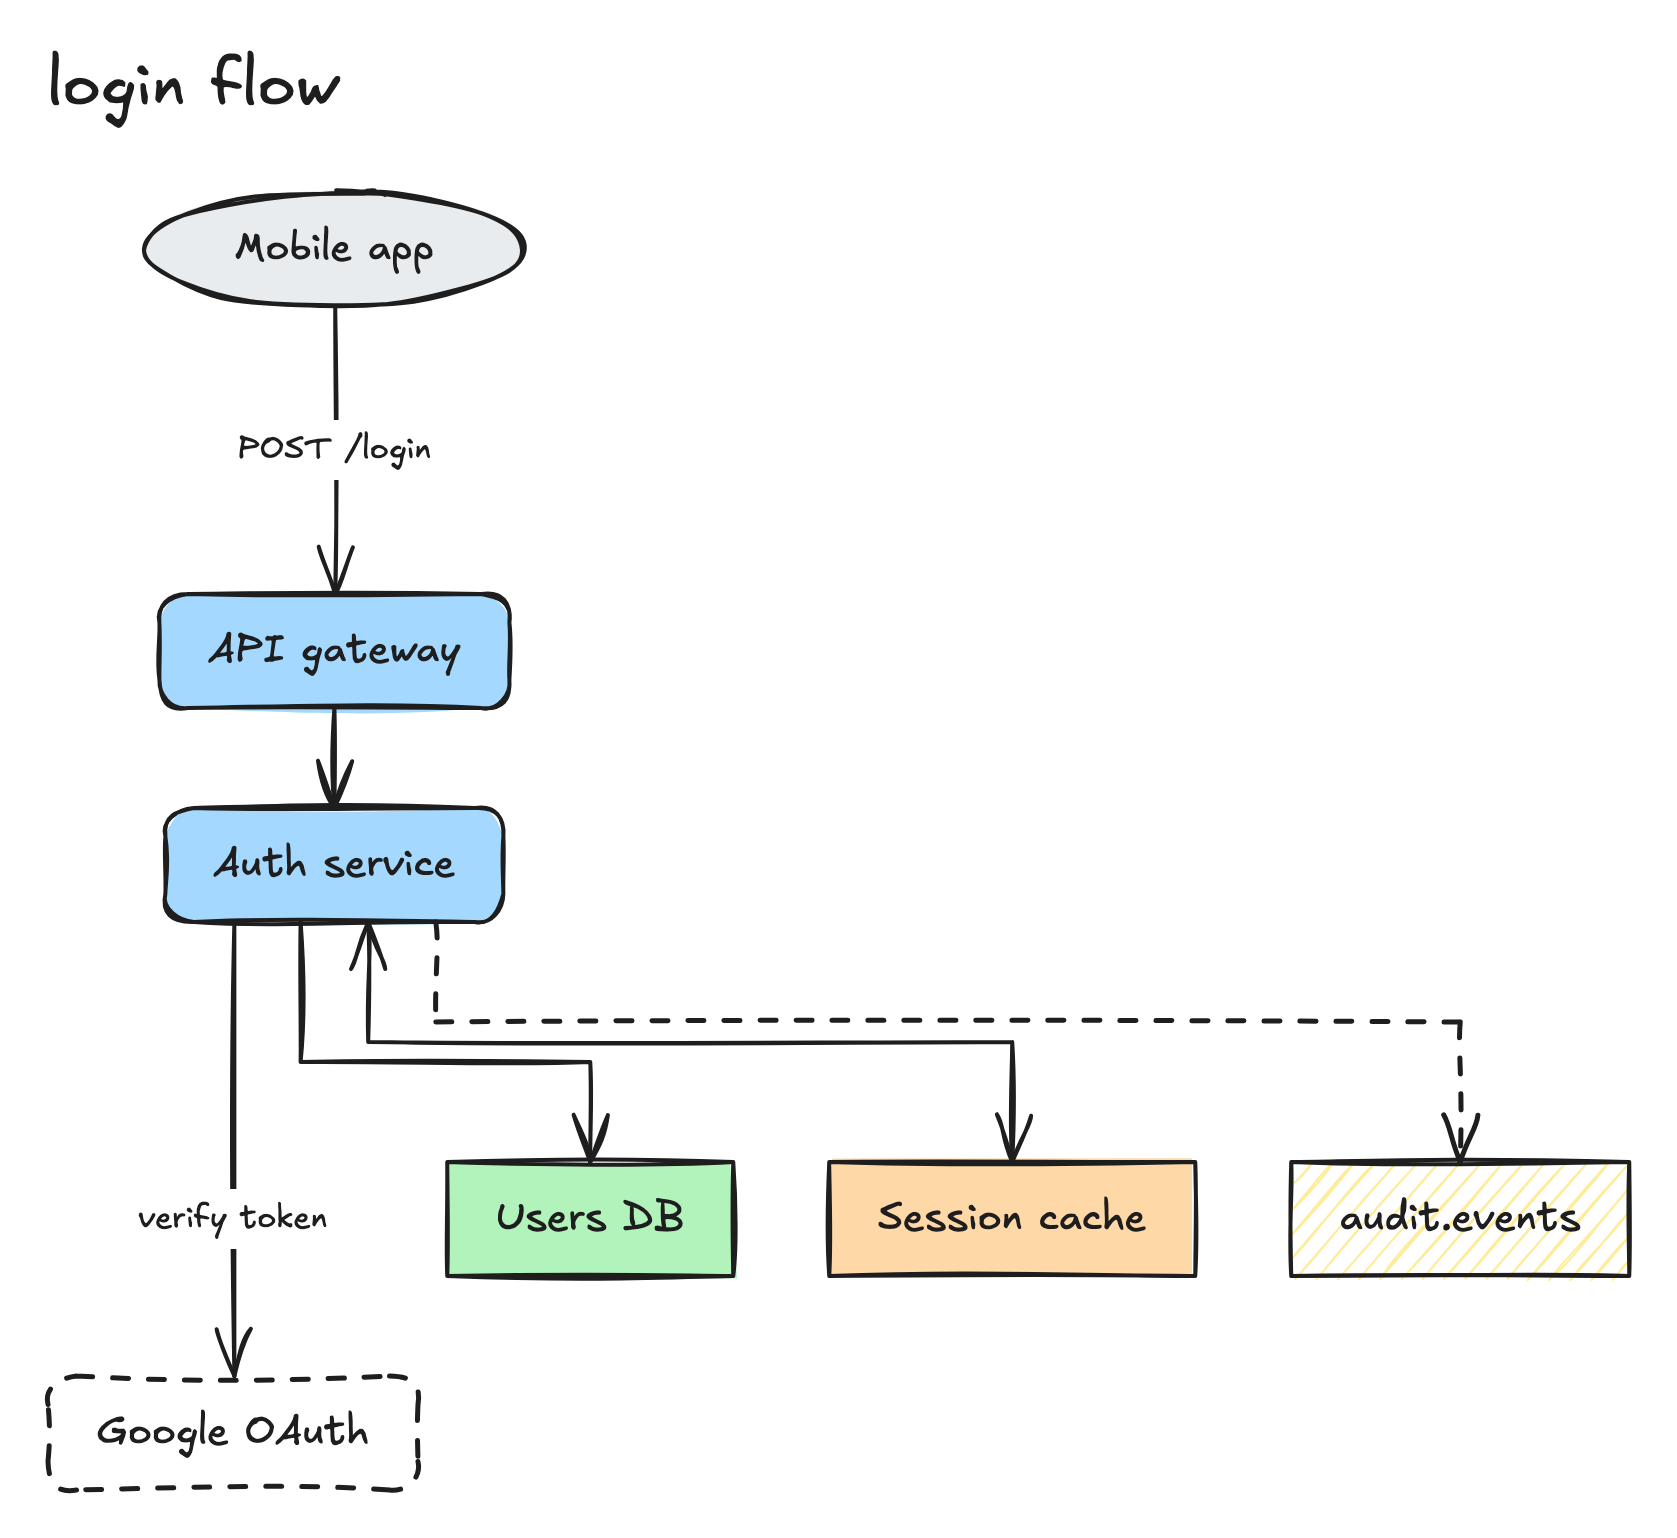
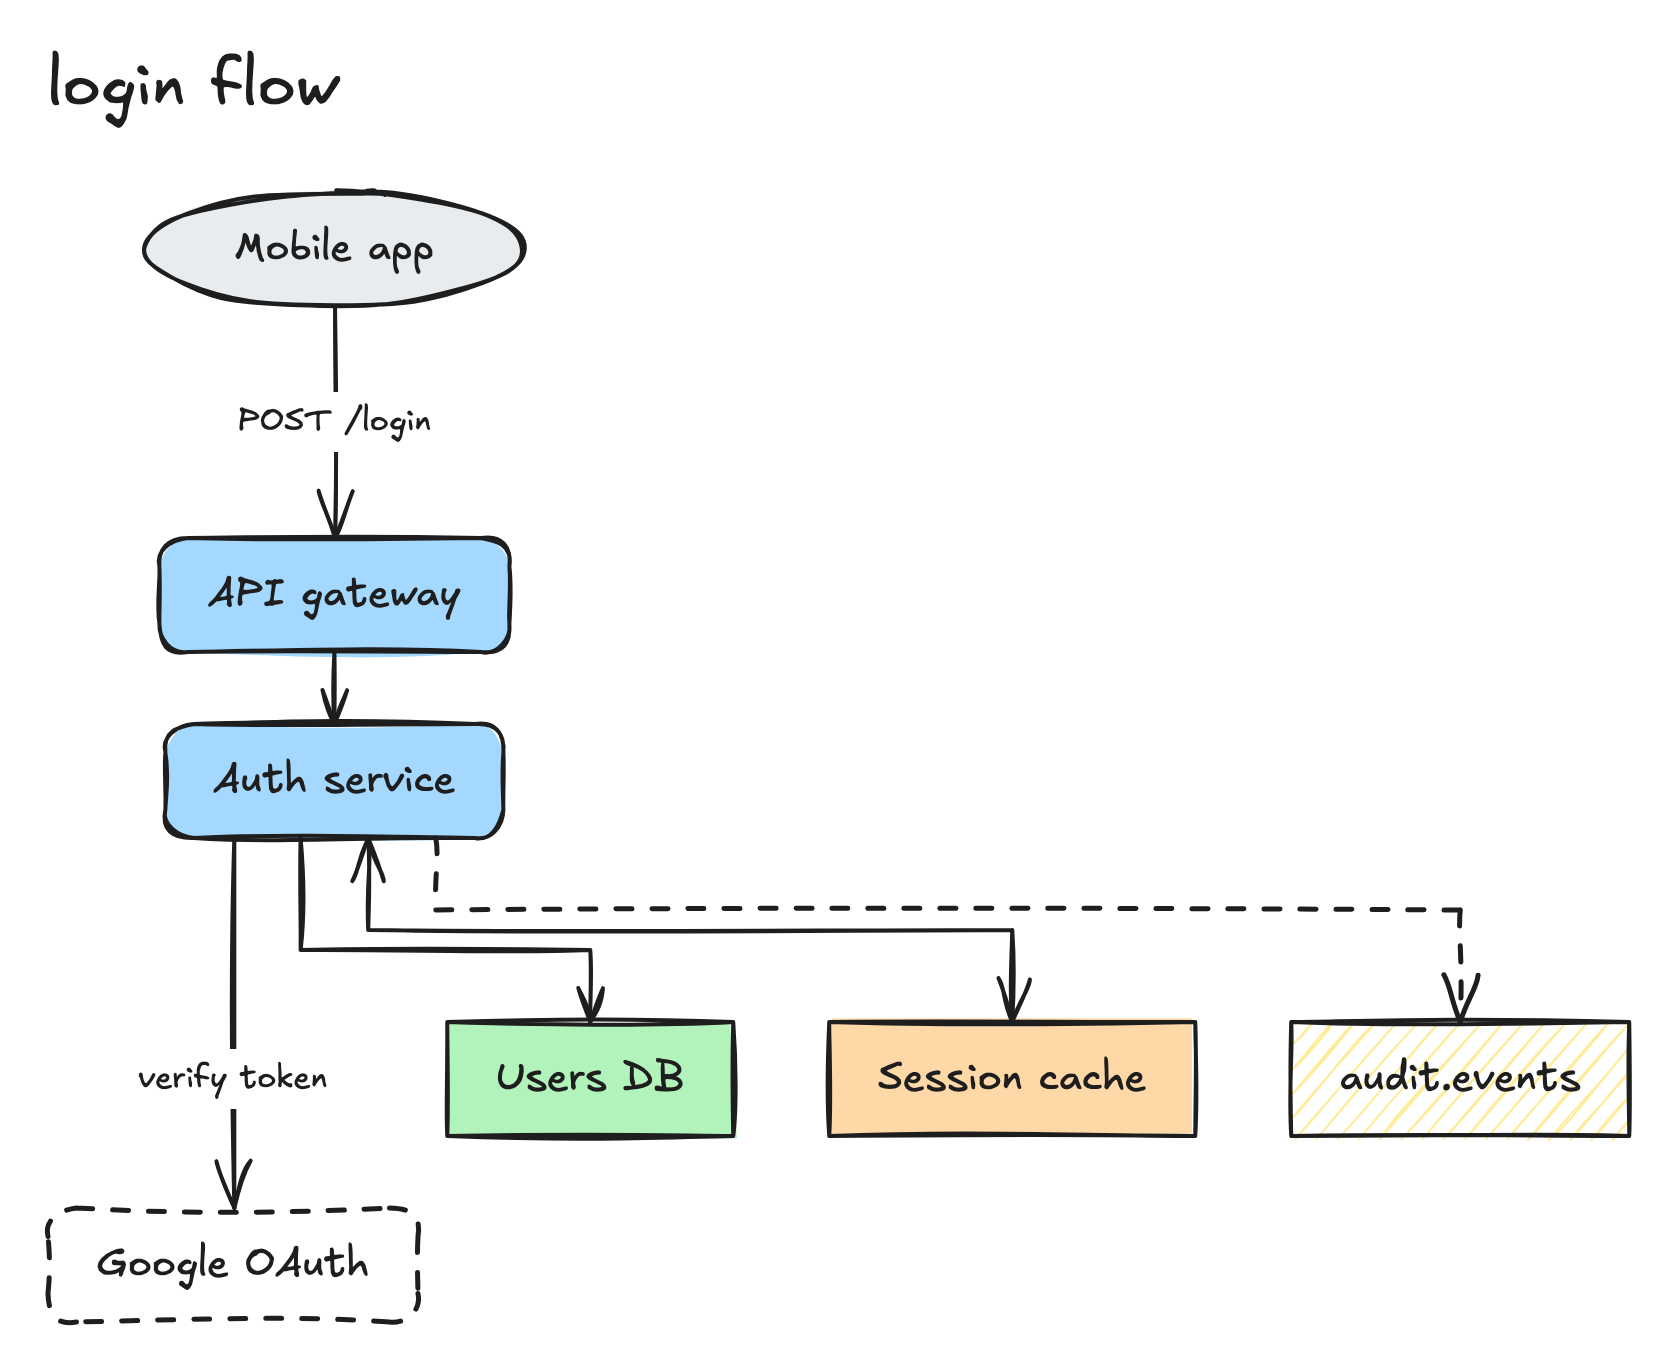
fix: draw for the scaled-down picture
Whoever judges a diagram usually sees it scaled down, and at a quarter size a
dashed async arrow running beside a dashed group border reads as the border.
Group borders are solid now, so a dashed line is always an arrow.

The arrowhead room drops from 50 to 36. 50 earned a full 25px head but
stretched dense diagrams by a further tenth, and a bigger picture is scaled
down harder; an 18px head still reads and the labels stay larger.

diff --git a/src/elements.test.ts b/src/elements.test.ts
@@ -221,7 +221,7 @@ describe("buildElements", () => {
     expect(shapeOf("Web app")).toMatchObject({ type: "ellipse", backgroundColor: "#e9ecef", roundness: null });
     expect(shapeOf("Order API")).toMatchObject({ type: "rectangle", backgroundColor: "#a5d8ff", roundness: { type: 3 } });
     expect(shapeOf("Postgres")).toMatchObject({ type: "rectangle", backgroundColor: "#b2f2bb", roundness: null, fillStyle: "solid" });
-    expect(elements[0]).toMatchObject({ type: "rectangle", strokeStyle: "dashed", strokeWidth: 1, backgroundColor: "#f8f9fa" });
+    expect(elements[0]).toMatchObject({ type: "rectangle", strokeStyle: "solid", strokeWidth: 1, backgroundColor: "#f8f9fa" });
     expect(textOf("AWS")).toMatchObject({ x: 231 + 16, y: 16, strokeColor: "#495057", fontSize: FONT.group, containerId: null });
   });
 

diff --git a/src/layout.ts b/src/layout.ts
@@ -30,9 +30,10 @@ type Side = "left" | "right" | "top" | "bottom";
 
 /**
  * Straight run an arrow needs at each end that carries a head. Excalidraw draws the head
- * `min(25, segment / 2)` long, so anything shorter than this is a stub of a head.
+ * `min(25, segment / 2)` long. 36 draws an 18px head; the 50 a full head needs stretched dense
+ * diagrams further than the extra 7px was worth.
  */
-export const ARROWHEAD_ROOM = 50;
+export const ARROWHEAD_ROOM = 36;
 /** Distance kept between two arrow ends on the same side of a node: an arrowhead is 17px wide. */
 export const END_SPACING = 32;
 

diff --git a/src/layout.test.ts b/src/layout.test.ts
@@ -297,7 +297,7 @@ describe("layout edge cases", () => {
       edges: [edge(0, "a", "b")],
     });
     const { a, b } = result.nodes;
-    expect(b!.y).toBeGreaterThanOrEqual(a!.y + a!.height + 48);
+    expect(b!.y).toBeGreaterThanOrEqual(a!.y + a!.height + ARROWHEAD_ROOM);
     const { points } = result.edges["edge:0"]!;
     expect(near(points[0]!.y, a!.y + a!.height)).toBe(true);
     expect(near(points.at(-1)!.y, b!.y)).toBe(true);

diff --git a/src/spec.ts b/src/spec.ts
@@ -118,7 +118,7 @@ const group = strict(
     label: text("text drawn inside the top-left corner of the box"),
     parent: id("id of the group this one nests inside").optional(),
   },
-  "a dashed boundary drawn around nodes, such as a VPC, cluster, or account",
+  "a boundary drawn around nodes, such as a VPC, cluster, or account",
 );
 
 const node = strict(

diff --git a/src/style.ts b/src/style.ts
@@ -43,7 +43,7 @@ export function arrowheads(arrows: Arrows): { start: "arrow" | null; end: "arrow
 export const GROUP_STYLE = {
   fill: "#f8f9fa",
   stroke: "#868e96",
-  strokeStyle: "dashed" as StrokeStyle,
+  strokeStyle: "solid" as StrokeStyle,
   strokeWidth: 1,
   labelColor: "#495057",
   padding: 16,

diff --git a/DESIGN.md b/DESIGN.md
@@ -124,8 +124,9 @@ Fixed per kind. No caller-facing colour, font, or shape options exist.
 | external  | rectangle, rounded       | transparent | solid   | `#1e1e1e` | strokeStyle `dashed`           |
 
 - group: rectangle, sharp, fill `#f8f9fa`, stroke `#868e96` (grey so boundaries
-  recede behind the flow), strokeStyle `dashed`, strokeWidth 1, label text in the
-  top padding strip, fontSize 16, colour `#495057`
+  recede behind the flow), strokeStyle `solid` so that a dashed line is always an
+  async arrow and never a border, even in a scaled-down PNG, strokeWidth 1, label
+  text in the top padding strip, fontSize 16, colour `#495057`
 - edges: `sync` solid, `async` dashed; strokeColor `#1e1e1e`, strokeWidth 2;
   endArrowhead `"arrow"`; `arrows: "both"` also sets startArrowhead; `"none"`
   sets neither
@@ -150,8 +151,8 @@ ELK (`elkjs/lib/elk.bundled.js`, no worker) with:
   order the spec lists them in, as far as crossings allow
 - group padding leaves room for the label: top = label.height + 16, others 16
 - spacing: `elk.spacing.nodeNode: 48`, `elk.spacing.edgeNode: 24`,
-  `elk.layered.spacing.nodeNodeBetweenLayers: 50`,
-  `elk.layered.spacing.edgeNodeBetweenLayers: 50`. ELK reads a spacing from the
+  `elk.layered.spacing.nodeNodeBetweenLayers: 36`,
+  `elk.layered.spacing.edgeNodeBetweenLayers: 36`. ELK reads a spacing from the
   node that contains what is being spaced, so all four go on the root and on
   every group node. A group that omits them lays its children out on ELK's own
   defaults, which put a bend 10px from the node it points at
@@ -175,14 +176,14 @@ ELK (`elkjs/lib/elk.bundled.js`, no worker) with:
 Excalidraw sizes an arrowhead from the segment it ends on: `min(25, length *
 0.5)` for the `arrow` head, in `getArrowheadPoints` in the vendored bundle. A
 bend 10px short of its target therefore draws a 5px hook, not a head.
-`ARROWHEAD_ROOM` is 50, the length that earns the full 25, and it is the value
-of both `nodeNodeBetweenLayers` and `edgeNodeBetweenLayers`, because the
-straight run between two layers and the gap ELK leaves between a routing slot
-and a node are the two things that become an arrow's last segment. The same
-number bounds the self loop stand-off. It costs two pixels a gap on a chain of
-straight arrows, which already ran on the 48 of `nodeNode`, and about half
-again the long axis on the densest stress specs, where nearly every gap holds a
-bend. That is the price of a head that reads at a glance in a downscaled PNG.
+`ARROWHEAD_ROOM` is 36, which draws an 18px head. The full 25 needs 50, and 50 was
+tried: it stretched the densest stress specs by a further tenth along their long
+axis, and a bigger picture is scaled down harder before anyone reads it, which
+costs more legibility than the last 7px of arrowhead buys. It is the value of
+both `nodeNodeBetweenLayers` and `edgeNodeBetweenLayers`, because the straight
+run between two layers and the gap ELK leaves between a routing slot and a node
+are the two things that become an arrow's last segment. The same number bounds
+the self loop stand-off.
 
 `END_SPACING` is 32, the distance held between two arrow ends on the same side
 of a node. An arrowhead is `2 * 25 * sin(20 degrees)` wide, about 17px, so 32
@@ -402,11 +403,10 @@ same whether the tool ran or not.
 suggestion to split the diagram or shorten its labels. The threshold is where an
 agent stops being able to read the picture it asked for. The export is 2x and a
 viewer scales the longest side to around 1568 pixels, so past 6000 the reduction
-is over 4x and a 20pt node label lands under 10 pixels in the copy being read;
-that is the size at which a dashed arrow beside a dashed group border stops
-being distinguishable from it. Over `examples/` and `stress/` it speaks up for
-two specs, the twenty-node region pair at 7929 wide and the fourteen-box chain
-at 6601, and stays quiet for the rest, the tall twenty-node variant included.
+is over 4x and a 20pt node label lands under 10 pixels in the copy being read,
+which is where thin lines and small labels start to go missing. Over `examples/` and `stress/` it speaks up for
+two specs, the twenty-node region pair at 9133 wide and the fourteen-box chain
+at 6145, and stays quiet for the rest, the tall twenty-node variant included.
 Nothing else about the output changes, so a diagram that still reads prints
 exactly what it printed before.
 

diff --git a/README.md b/README.md
@@ -95,7 +95,7 @@ Siblings keep the order the spec lists them in, as far as edge crossings allow, 
 
 An edge label rides on its arrow and reserves that much width in the layout, which is why a short one is worth the effort: put a sentence on an edge and the whole diagram stretches to fit it. A `\n` in any label starts a new line. An edge may loop from a node back to itself, and two edges between the same pair stay two arrows.
 
-One diagram holds about twenty nodes before it stops being readable at a glance, and fewer when they run in a single chain, which stretches one way and stays thin the other. Beyond that the PNG gets big enough that anyone looking at it scaled down, an agent especially, starts mistaking a dashed arrow for the dashed border it runs beside. Split the system into an overview and a detail diagram instead; `render` and the `sketch` tool both add a line saying so once the longest side of the PNG passes 6000 pixels.
+One diagram holds about twenty nodes before it stops being readable at a glance, and fewer when they run in a single chain, which stretches one way and stays thin the other. Beyond that the PNG gets big enough that anyone looking at it scaled down, an agent especially, starts losing thin lines and small labels. Split the system into an overview and a detail diagram instead; `render` and the `sketch` tool both add a line saying so once the longest side of the PNG passes 6000 pixels.
 
 Unknown keys are rejected, and `excalix validate` reports every problem at once, so a typo costs one round trip instead of several. Each line names the path, shows what it found and says what would have been valid, and an id that is nearly right comes back with the id it is nearly:
 

diff --git a/skills/excalix/SKILL.md b/skills/excalix/SKILL.md
@@ -15,7 +15,7 @@ Not for flowcharts, sequence diagrams, ER diagrams or state machines.
 ## The spec
 
 JSON with `nodes` and `edges`, optional `title`, `direction` (`lr` default, or
-`tb`), and `groups` for dashed boundaries that nest through `parent`.
+`tb`), and `groups` for boundaries that nest through `parent`.
 
 ```json
 {
@@ -62,9 +62,9 @@ between the same pair; each one draws as its own arrow.
 
 Twenty nodes is roughly the ceiling for one picture, and a dozen boxes in a
 single run reaches it sooner, since a chain stretches one way and stays thin the
-other. Past the ceiling the image is scaled down before you read it, until a
-dashed arrow running beside a group border is no longer distinguishable from the
-border itself, and you end up reporting things the coordinates do not say.
+other. Past the ceiling the image is scaled down before you read it, thin lines and
+small labels start to go missing, and you end up reporting things the
+coordinates do not say.
 
 A long chain still reads better as `lr` and a deep hierarchy as `tb`, so try
 `direction` first. When direction is not what is wrong, two diagrams is the

diff --git a/src/__snapshots__/sketch-tool.md b/src/__snapshots__/sketch-tool.md
@@ -75,7 +75,7 @@ Look at the returned image and call again with an adjusted spec if labels overla
           "label"
         ],
         "additionalProperties": false,
-        "description": "a dashed boundary drawn around nodes, such as a VPC, cluster, or account"
+        "description": "a boundary drawn around nodes, such as a VPC, cluster, or account"
       }
     },
     "nodes": {
